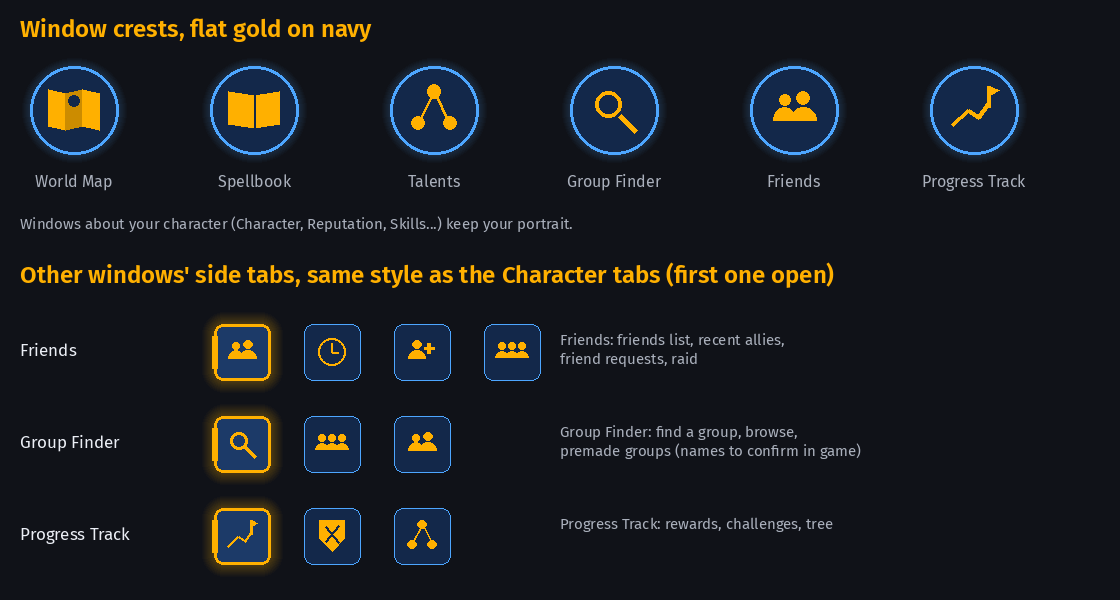
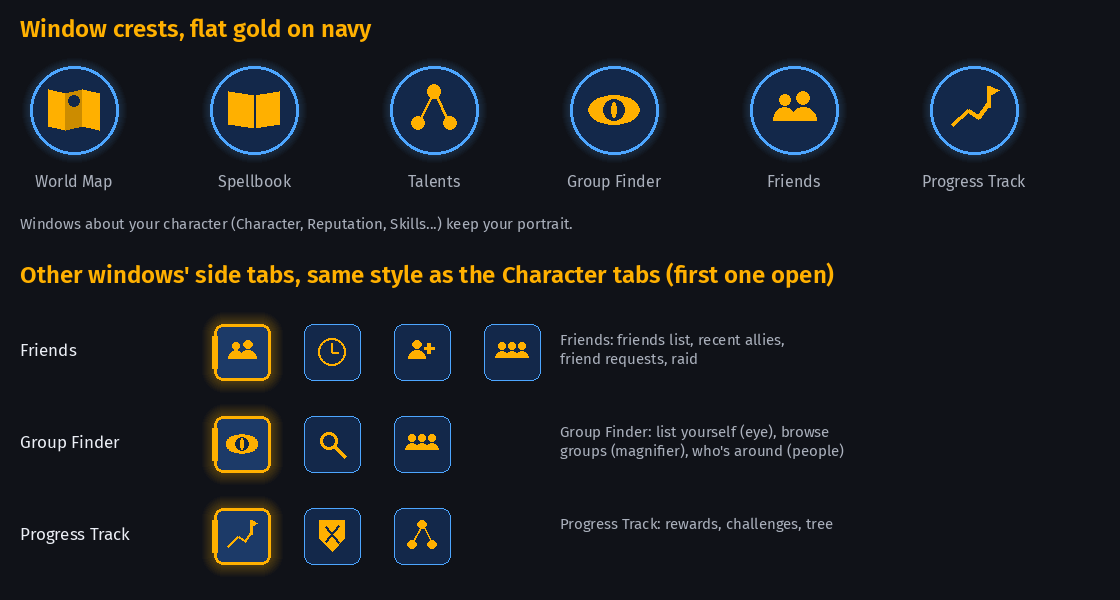
Crest mockup: real Group Finder tabs
Claude-Session: https://claude.ai/code/session_01VXfbTCnfGK8G42qZ82wSEU

diff --git a/mock/crests_flat.py b/mock/crests_flat.py
@@ -26,6 +26,15 @@ def g(d, kind, cx, cy, r, C):
     elif kind == 'eye':      # group finder: magnifier
         d.ellipse([cx - r * .7, cy - r * .7, cx + r * .3, cy + r * .3], outline=C, width=max(2, int(r * .18)))
         d.line([(cx + r * .2, cy + r * .2), (cx + r * .8, cy + r * .8)], fill=C, width=max(3, int(r * .24)))
+    elif kind == 'eyeball':  # Group Finder listing tab: a flat eye
+        w = r * .95; h = r * .55; pts = []
+        for i in range(41):
+            t = i / 40 * math.pi; pts.append((cx - w * math.cos(t), cy - h * math.sin(t)))
+        for i in range(41):
+            t = i / 40 * math.pi; pts.append((cx + w * math.cos(t), cy + h * math.sin(t)))
+        d.polygon(pts, fill=C)
+        d.ellipse([cx - r * .38, cy - r * .38, cx + r * .38, cy + r * .38], fill=NAVY + (255,))
+        d.ellipse([cx - r * .1, cy - r * .3, cx + r * .1, cy + r * .3], fill=C)
     elif kind == 'friends':  # two people
         for dx, s in ((-r * .35, .85), (r * .35, 1)):
             d.ellipse([cx + dx - r * .25 * s, cy - r * .7 * s, cx + dx + r * .25 * s, cy - r * .2 * s], fill=C)
@@ -66,14 +75,14 @@ def ftab(kind, sel, S=56):
 W, H = 1120, 600
 sheet = Image.new('RGBA', (W, H), (16, 18, 24, 255)); d = ImageDraw.Draw(sheet)
 d.text((20, 14), "Window crests, flat gold on navy", font=F(24, 'SemiBold'), fill=GOLD + (255,))
-for i, (k, name) in enumerate((('map', "World Map"), ('book', "Spellbook"), ('talents', "Talents"), ('eye', "Group Finder"),
+for i, (k, name) in enumerate((('map', "World Map"), ('book', "Spellbook"), ('talents', "Talents"), ('eyeball', "Group Finder"),
                                ('friends', "Friends"), ('track', "Progress Track"))):
     x = 20 + i * 180
     sheet.alpha_composite(crest(k), (x, 56))
     d.text((x + 54, 172), name, font=F(16), fill=DIM + (255,), anchor='ma')
 d.text((20, 214), "Windows about your character (Character, Reputation, Skills...) keep your portrait.", font=F(15), fill=DIM + (255,))
 d.text((20, 260), "Other windows' side tabs, same style as the Character tabs (first one open)", font=F(24, 'SemiBold'), fill=GOLD + (255,))
-rows = [("Friends", ['friends', 'clock', 'request', 'people']), ("Group Finder", ['eye', 'people', 'friends']),
+rows = [("Friends", ['friends', 'clock', 'request', 'people']), ("Group Finder", ['eyeball', 'eye', 'people']),
         ("Progress Track", ['track', 'pvp', 'talents'])]
 for r, (name, kinds) in enumerate(rows):
     y = 310 + r * 92
@@ -81,6 +90,6 @@ for r, (name, kinds) in enumerate(rows):
     for i, k in enumerate(kinds):
         sheet.alpha_composite(ftab(k, i == 0), (200 + i * 90, y))
 d.text((560, 330), "Friends: friends list, recent allies,\nfriend requests, raid", font=F(15), fill=DIM + (255,))
-d.text((560, 422), "Group Finder: find a group, browse,\npremade groups (names to confirm in game)", font=F(15), fill=DIM + (255,))
+d.text((560, 422), "Group Finder: list yourself (eye), browse\ngroups (magnifier), who's around (people)", font=F(15), fill=DIM + (255,))
 d.text((560, 514), "Progress Track: rewards, challenges, tree", font=F(15), fill=DIM + (255,))
 sheet.convert('RGB').save('/home/claude/aether-repo/mock/out_crests.png'); print(sheet.size)
